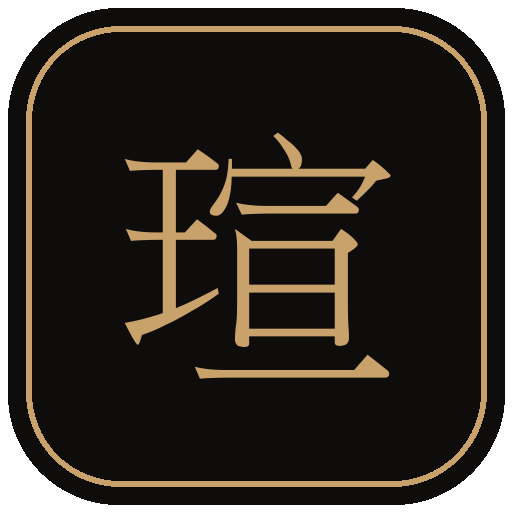
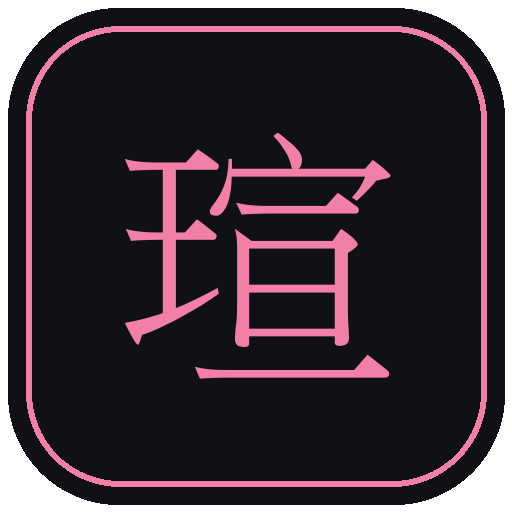
style(M1-editorial-redesign): step 4 - 石墨×玫瑰粉配色系統 v3
- 主題 token 依使用者色票全面重寫:gold->accent 角色改名,新增 elevated/muted-2/accent-soft/on-accent
- 9 元件換語意色;Hero 浮章日間模式修正;OG/favicon 重製;themeColor #101116
- ADR-007 記錄;雙主題 computed token 驗證與 build 通過

STATE: S9 -> S9 (M1 追加微調 step 4)

diff --git a/src/components/Hero.tsx b/src/components/Hero.tsx
@@ -7,19 +7,19 @@ import { LineIcon } from "./Nav";
 export default function Hero() {
   return (
     <section id="top" className="relative overflow-hidden">
-      {/* 背景氛圍:極淡的金色光暈 */}
-      <div className="pointer-events-none absolute -top-32 right-[-10%] size-[28rem] rounded-full bg-gold/10 blur-3xl" />
+      {/* 背景氛圍:極淡的玫瑰光暈 */}
+      <div className="pointer-events-none absolute -top-32 right-[-10%] size-[28rem] rounded-full bg-accent/10 blur-3xl" />
 
       <div className="relative mx-auto grid max-w-6xl items-center gap-12 px-5 pt-14 pb-20 md:grid-cols-[1.1fr_0.9fr] md:pt-20">
         {/* 文字(手機版照片在上) */}
         <div className="order-2 md:order-1">
-          <p className="text-xs font-semibold uppercase tracking-[0.35em] text-gold">
+          <p className="text-xs font-semibold uppercase tracking-[0.35em] text-accent">
             {profile.eyebrow}
           </p>
 
           <h1 className="mt-5 font-serif text-6xl font-black leading-none tracking-wide md:text-7xl">
             {profile.stageName}
-            <span className="mt-3 block font-serif text-xl font-medium italic tracking-[0.3em] text-gold md:text-2xl">
+            <span className="mt-3 block font-serif text-xl font-medium italic tracking-[0.3em] text-accent md:text-2xl">
               {profile.englishName}
             </span>
           </h1>
@@ -44,7 +44,7 @@ export default function Hero() {
                 <dt className="text-[11px] uppercase tracking-[0.2em] text-muted">
                   {s.label}
                 </dt>
-                <dd className="mt-1.5 font-serif text-lg font-semibold text-gold">
+                <dd className="mt-1.5 font-serif text-lg font-semibold text-accent">
                   {s.value}
                   {s.unit && <span className="ml-0.5 text-xs text-muted">{s.unit}</span>}
                 </dd>
@@ -57,14 +57,14 @@ export default function Hero() {
               href={profile.lineUrl}
               target="_blank"
               rel="noopener noreferrer"
-              className="inline-flex items-center gap-2 rounded-full bg-gold px-7 py-3 font-bold text-canvas transition-colors hover:bg-gold-strong"
+              className="inline-flex items-center gap-2 rounded-full bg-accent px-7 py-3 font-bold text-on-accent transition-colors hover:bg-accent-hover"
             >
               <LineIcon className="size-5" />
               LINE 邀約
             </a>
             <a
               href="#gallery"
-              className="inline-flex items-center rounded-full border border-hairline bg-surface px-7 py-3 font-medium text-ink transition-colors hover:border-gold hover:text-gold"
+              className="inline-flex items-center rounded-full border border-hairline bg-surface px-7 py-3 font-medium text-ink transition-colors hover:border-accent hover:text-accent"
             >
               查看作品
             </a>
@@ -74,7 +74,7 @@ export default function Hero() {
         {/* 形象照 */}
         <div className="order-1 flex justify-center md:order-2 md:justify-end">
           <div className="relative w-64 sm:w-72 md:w-80">
-            <div className="absolute -inset-3 rounded-[1.75rem] border border-gold/30" />
+            <div className="absolute -inset-3 rounded-[1.75rem] border border-accent/30" />
             <Image
               src={asset(`/photos/${heroPhoto.file}`)}
               alt={`${profile.stageName} 形象照 — ${heroPhoto.caption}`}
@@ -83,7 +83,7 @@ export default function Hero() {
               priority
               className="relative rounded-3xl object-cover shadow-2xl"
             />
-            <span className="absolute bottom-4 left-4 rounded-full bg-overlay px-3.5 py-1.5 text-xs tracking-wide text-ink backdrop-blur-sm">
+            <span className="absolute bottom-4 left-4 rounded-full bg-overlay px-3.5 py-1.5 text-xs tracking-wide text-white/90 backdrop-blur-sm">
               {heroPhoto.caption}
             </span>
           </div>

diff --git a/src/app/globals.css b/src/app/globals.css
@@ -1,42 +1,56 @@
 @import "tailwindcss";
 
-/* ---- 主題 token（ADR-004）----
-   深色奢華為預設;[data-theme="light"] 切象牙日間。
-   元件一律用語意色(canvas/surface/ink/muted/gold/hairline),不要硬編色碼。 */
+/* ---- 主題 token(ADR-004 主題系統/ADR-007 配色 v3)----
+   深色為預設;[data-theme="light"] 切暖白日間。
+   配色系統 v3:石墨×玫瑰粉(2026-07-12 使用者定案色票)。
+   同一「色彩角色」跨明暗主題使用不同色碼(Material Design 建議),
+   元件一律用語意色(canvas/surface/ink/muted/accent/hairline),不要硬編色碼。 */
 :root,
 [data-theme="dark"] {
-  --canvas: #0e0d0b;
-  --surface: #161410;
-  --surface-2: #1e1b15;
-  --ink: #ece7dc;
-  --muted: #a59c8a;
-  --gold: #c9a26b;
-  --gold-strong: #ddb87e;
-  --hairline: #2b2721;
-  --overlay: rgba(10, 9, 7, 0.55);
+  --canvas: #101116; /* Page Background */
+  --surface: #171920; /* Primary Surface:卡片、Navbar */
+  --surface-2: #20222a; /* Secondary Surface:次層區域、hover */
+  --elevated: #282a33; /* Elevated Surface:modal、浮動元件 */
+  --ink: #f5f2f4; /* Primary Text */
+  --muted: #aaa4ac; /* Secondary Text */
+  --muted-2: #85808a; /* Muted Text:非關鍵 metadata */
+  --hairline: #31343d; /* Border */
+  --accent: #f27fa5; /* Accent Pink:深底用亮玫瑰(對比約 7.5:1) */
+  --accent-hover: #ff9abb; /* Hover / Active */
+  --accent-soft: #2c1821; /* 深酒紅提示背景 */
+  --on-accent: #101116; /* 粉色按鈕上的文字 */
+  --overlay: rgba(16, 17, 22, 0.55);
 }
 
 [data-theme="light"] {
-  --canvas: #f6f3ec;
-  --surface: #fffdf8;
-  --surface-2: #efeadf;
-  --ink: #221d16;
-  --muted: #71685a;
-  --gold: #9a7b3f;
-  --gold-strong: #7e6330;
-  --hairline: #e2dbcc;
-  --overlay: rgba(34, 29, 22, 0.45);
+  --canvas: #f7f7f5;
+  --surface: #ffffff;
+  --surface-2: #f0eeef;
+  --elevated: #ffffff;
+  --ink: #17171a;
+  --muted: #625d66;
+  --muted-2: #756e78;
+  --hairline: #ded9df;
+  --accent: #c43f6b; /* 暖白底用深玫瑰(對比約 4.58:1,可當一般文字) */
+  --accent-hover: #a93259;
+  --accent-soft: #f8e7ed;
+  --on-accent: #ffffff;
+  --overlay: rgba(23, 23, 26, 0.45);
 }
 
 @theme inline {
   --color-canvas: var(--canvas);
   --color-surface: var(--surface);
   --color-surface-2: var(--surface-2);
+  --color-elevated: var(--elevated);
   --color-ink: var(--ink);
   --color-muted: var(--muted);
-  --color-gold: var(--gold);
-  --color-gold-strong: var(--gold-strong);
+  --color-muted-2: var(--muted-2);
   --color-hairline: var(--hairline);
+  --color-accent: var(--accent);
+  --color-accent-hover: var(--accent-hover);
+  --color-accent-soft: var(--accent-soft);
+  --color-on-accent: var(--on-accent);
   --color-overlay: var(--overlay);
 
   --font-sans: var(--font-noto), "PingFang TC", "Microsoft JhengHei",
@@ -57,6 +71,6 @@ body {
 }
 
 ::selection {
-  background: var(--gold);
-  color: var(--canvas);
+  background: var(--accent);
+  color: var(--on-accent);
 }

diff --git a/src/components/Gallery.tsx b/src/components/Gallery.tsx
@@ -61,8 +61,8 @@ export default function Gallery() {
               }}
               className={`rounded-full border px-5 py-2 text-sm transition-colors ${
                 cat === key
-                  ? "border-gold bg-gold font-bold text-canvas"
-                  : "border-hairline bg-surface text-muted hover:border-gold hover:text-gold"
+                  ? "border-accent bg-accent font-bold text-on-accent"
+                  : "border-hairline bg-surface text-muted hover:border-accent hover:bg-accent-soft hover:text-accent"
               }`}
             >
               {label}
@@ -130,7 +130,7 @@ export default function Gallery() {
                 step(-1);
               }}
               aria-label="上一張"
-              className="absolute left-3 top-1/2 flex size-11 -translate-y-1/2 items-center justify-center rounded-full border border-white/20 text-2xl text-white/80 transition-colors hover:border-gold hover:text-gold"
+              className="absolute left-3 top-1/2 flex size-11 -translate-y-1/2 items-center justify-center rounded-full border border-white/20 text-2xl text-white/80 transition-colors hover:border-accent hover:text-accent"
             >
               ‹
             </button>
@@ -141,7 +141,7 @@ export default function Gallery() {
                 step(1);
               }}
               aria-label="下一張"
-              className="absolute right-3 top-1/2 flex size-11 -translate-y-1/2 items-center justify-center rounded-full border border-white/20 text-2xl text-white/80 transition-colors hover:border-gold hover:text-gold"
+              className="absolute right-3 top-1/2 flex size-11 -translate-y-1/2 items-center justify-center rounded-full border border-white/20 text-2xl text-white/80 transition-colors hover:border-accent hover:text-accent"
             >
               ›
             </button>
@@ -149,7 +149,7 @@ export default function Gallery() {
               type="button"
               onClick={close}
               aria-label="關閉"
-              className="absolute right-3 top-3 flex size-11 items-center justify-center rounded-full border border-white/20 text-lg text-white/80 transition-colors hover:border-gold hover:text-gold"
+              className="absolute right-3 top-3 flex size-11 items-center justify-center rounded-full border border-white/20 text-lg text-white/80 transition-colors hover:border-accent hover:text-accent"
             >
               ✕
             </button>

diff --git a/src/components/Contact.tsx b/src/components/Contact.tsx
@@ -19,7 +19,7 @@ export default function Contact() {
             <span className="text-[11px] uppercase tracking-[0.25em] text-muted">
               LINE ID
             </span>
-            <span className="font-serif text-lg font-semibold tracking-widest text-gold">
+            <span className="font-serif text-lg font-semibold tracking-widest text-accent">
               {profile.lineId}
             </span>
             <CopyButton text={profile.lineId} />
@@ -30,7 +30,7 @@ export default function Contact() {
               href={profile.lineUrl}
               target="_blank"
               rel="noopener noreferrer"
-              className="inline-flex items-center gap-2 rounded-full bg-gold px-8 py-3 font-bold text-canvas transition-colors hover:bg-gold-strong"
+              className="inline-flex items-center gap-2 rounded-full bg-accent px-8 py-3 font-bold text-on-accent transition-colors hover:bg-accent-hover"
             >
               <LineIcon className="size-5" />
               加 LINE 聊聊
@@ -40,7 +40,7 @@ export default function Contact() {
                 href={`https://www.instagram.com/${profile.instagram}`}
                 target="_blank"
                 rel="noopener noreferrer"
-                className="inline-flex items-center rounded-full border border-hairline px-8 py-3 font-medium text-ink transition-colors hover:border-gold hover:text-gold"
+                className="inline-flex items-center rounded-full border border-hairline px-8 py-3 font-medium text-ink transition-colors hover:border-accent hover:text-accent"
               >
                 Instagram
               </a>

diff --git a/src/components/Nav.tsx b/src/components/Nav.tsx
@@ -13,7 +13,7 @@ export default function Nav() {
       <div className="mx-auto flex h-16 max-w-6xl items-center justify-between px-5">
         <a href="#top" className="font-serif text-xl font-bold tracking-wide">
           {profile.stageName}
-          <span className="ml-2 font-serif italic text-gold text-base tracking-widest">
+          <span className="ml-2 font-serif italic text-accent text-base tracking-widest">
             {profile.englishName}
           </span>
         </a>
@@ -23,7 +23,7 @@ export default function Nav() {
             <a
               key={href}
               href={href}
-              className="text-sm text-muted transition-colors hover:text-gold"
+              className="text-sm text-muted transition-colors hover:text-accent"
             >
               {label}
             </a>
@@ -33,7 +33,7 @@ export default function Nav() {
             href={profile.lineUrl}
             target="_blank"
             rel="noopener noreferrer"
-            className="hidden md:inline-flex items-center gap-2 rounded-full bg-gold px-5 py-2 text-sm font-bold text-canvas transition-colors hover:bg-gold-strong"
+            className="hidden md:inline-flex items-center gap-2 rounded-full bg-accent px-5 py-2 text-sm font-bold text-on-accent transition-colors hover:bg-accent-hover"
           >
             <LineIcon className="size-4" />
             LINE 邀約

diff --git a/src/app/page.tsx b/src/app/page.tsx
@@ -18,9 +18,9 @@ export default function Home() {
       <footer className="border-t border-hairline py-10 text-center">
         <p className="font-serif text-sm tracking-[0.25em] text-muted">
           {profile.stageName}
-          <span className="mx-2 italic text-gold">{profile.englishName}</span>
+          <span className="mx-2 italic text-accent">{profile.englishName}</span>
         </p>
-        <p className="mt-2 text-xs text-muted/70">
+        <p className="mt-2 text-xs text-muted-2">
           © {new Date().getFullYear()} {profile.tagline}・專櫃美妝・快閃派樣・典禮接待
         </p>
       </footer>

diff --git a/src/components/ThemeToggle.tsx b/src/components/ThemeToggle.tsx
@@ -26,7 +26,7 @@ export default function ThemeToggle() {
       type="button"
       onClick={toggle}
       aria-label={theme === "dark" ? "切換為日間模式" : "切換為夜間模式"}
-      className="flex size-9 items-center justify-center rounded-full border border-hairline text-muted hover:text-gold hover:border-gold transition-colors"
+      className="flex size-9 items-center justify-center rounded-full border border-hairline text-muted hover:text-accent hover:border-accent transition-colors"
     >
       {theme === "dark" ? (
         /* 太陽:目前深色,點了變日間 */

diff --git a/src/components/BrandWall.tsx b/src/components/BrandWall.tsx
@@ -14,7 +14,7 @@ export default function BrandWall() {
           {brands.map((name) => (
             <li
               key={name}
-              className="border-l border-hairline pl-4 font-serif text-base tracking-wide text-muted transition-colors hover:border-gold hover:text-gold md:text-lg"
+              className="border-l border-hairline pl-4 font-serif text-base tracking-wide text-muted transition-colors hover:border-accent hover:text-accent md:text-lg"
             >
               {name}
             </li>

diff --git a/src/components/CopyButton.tsx b/src/components/CopyButton.tsx
@@ -19,8 +19,8 @@ export default function CopyButton({ text }: { text: string }) {
       }}
       className={`rounded-full border px-3.5 py-1 text-xs tracking-wide transition-colors ${
         copied
-          ? "border-gold text-gold"
-          : "border-hairline text-muted hover:border-gold hover:text-gold"
+          ? "border-accent bg-accent-soft text-accent"
+          : "border-hairline text-muted hover:border-accent hover:text-accent"
       }`}
     >
       {copied ? "已複製 ✓" : "複製"}

diff --git a/src/components/SectionTitle.tsx b/src/components/SectionTitle.tsx
@@ -9,7 +9,7 @@ export default function SectionTitle({
 }) {
   return (
     <div className="mb-12 text-center">
-      <p className="text-xs font-semibold uppercase tracking-[0.35em] text-gold">
+      <p className="text-xs font-semibold uppercase tracking-[0.35em] text-accent">
         {eyebrow}
       </p>
       <h2 className="mt-3 font-serif text-3xl font-bold md:text-4xl">{title}</h2>

diff --git a/src/app/layout.tsx b/src/app/layout.tsx
@@ -47,7 +47,7 @@ export const metadata: Metadata = {
 };
 
 export const viewport: Viewport = {
-  themeColor: "#0e0d0b",
+  themeColor: "#101116",
 };
 
 /** 防 FOUC:hydration 前先從 localStorage 套用主題(預設深色,ADR-004)。 */

diff --git a/.dev-os/STATE.md b/.dev-os/STATE.md
@@ -14,21 +14,22 @@ last_update: "2026-07-12"
 conversation:
   date: "2026-07-12"
   thread_n: 1
-  messages_estimate: 45
+  messages_estimate: 30
   health_verdict: "Healthy"
+  note: "本對話已 /compact 壓縮，以壓縮後有效脈絡估計"
 current_step:
-  n: 3
-  title: "驗證＋狀態同步（完成）"
+  n: 4
+  title: "配色系統 v3：石墨×玫瑰粉（完成）"
   location: "same conversation"
   started_at: "2026-07-12"
 last_step:
-  n: 2
-  title: "深色奢華 Editorial 重寫"
-  commit: "見 git log（step 2 commit）"
+  n: 3
+  title: "驗證＋狀態同步"
+  commit: "b9a81ea"
   completed_at: "2026-07-12"
 next_step:
-  n: 4
-  title: "等使用者選擇:M2 發布（需明說）/ M3 補內容 / M1 微調"
+  n: 5
+  title: "等使用者選擇:M2 發布（需明說）/ M3 補內容 / 繼續微調"
   location: "same conversation"
 blockers: []
 ---
@@ -38,20 +39,20 @@ blockers: []
 ## 當前狀態
 
 - **Phase**: Phase 1 — Editorial 改版
-- **Module**: M1-editorial-redesign — **已完成（S9）**
+- **Module**: M1-editorial-redesign — **已完成（S9，含 step 4 配色 v3 微調）**
 - **Branch**: main
 - **Last update**: 2026-07-12
 
 ## 當前 Step
 
-- **#3**: 驗證＋狀態同步 — 完成。M1 全部驗收通過（證據在 MINI_SPEC）。
+- **#4**: 配色系統 v3（石墨×玫瑰粉，ADR-007）— 完成。雙主題 token 逐字符合使用者色票，OG/favicon 同步重製。
 
 ## 下一個 Step
 
-- **#4**: 等使用者選擇（S9 不可自動選）：
+- **#5**: 等使用者選擇（S9 不可自動選）：
   - **A. M2 發布上線**（需明說「發布／push」，ADR-002）
   - **B. M3 補內容**（IG／新經歷／競選照決定）
-  - **C. M1 視覺微調**（先看本機預覽）
+  - **C. 繼續視覺微調**（本機預覽 http://localhost:3000/hsuan-resume）
 
 ## Blockers
 
@@ -59,10 +60,12 @@ blockers: []
 
 ## Module Progress
 
-- M1-editorial-redesign: 3 / 3 steps ✅
-- Acceptance: 全數通過（build／隱私 grep／日夜切換／3:4 統一／燈箱／品牌字牆）
+- M1-editorial-redesign: 4 / 4 steps ✅（step 4 為 S9 內追加微調）
+- Acceptance: 全數通過（build／隱私 grep／日夜切換／3:4 統一／燈箱／品牌字牆／配色 v3 token 驗證）
 
 ## Recent commits（本模組）
 
 - 075217d — step 1: root 化重構與 dev-os lite 實例化
-- (step 2/3 commits 見 git log)
+- cdcea69 — step 2: 深色奢華 editorial 重寫
+- b9a81ea — step 3: 驗收證據回填與狀態同步
+- (step 4 commit 見 git log)
